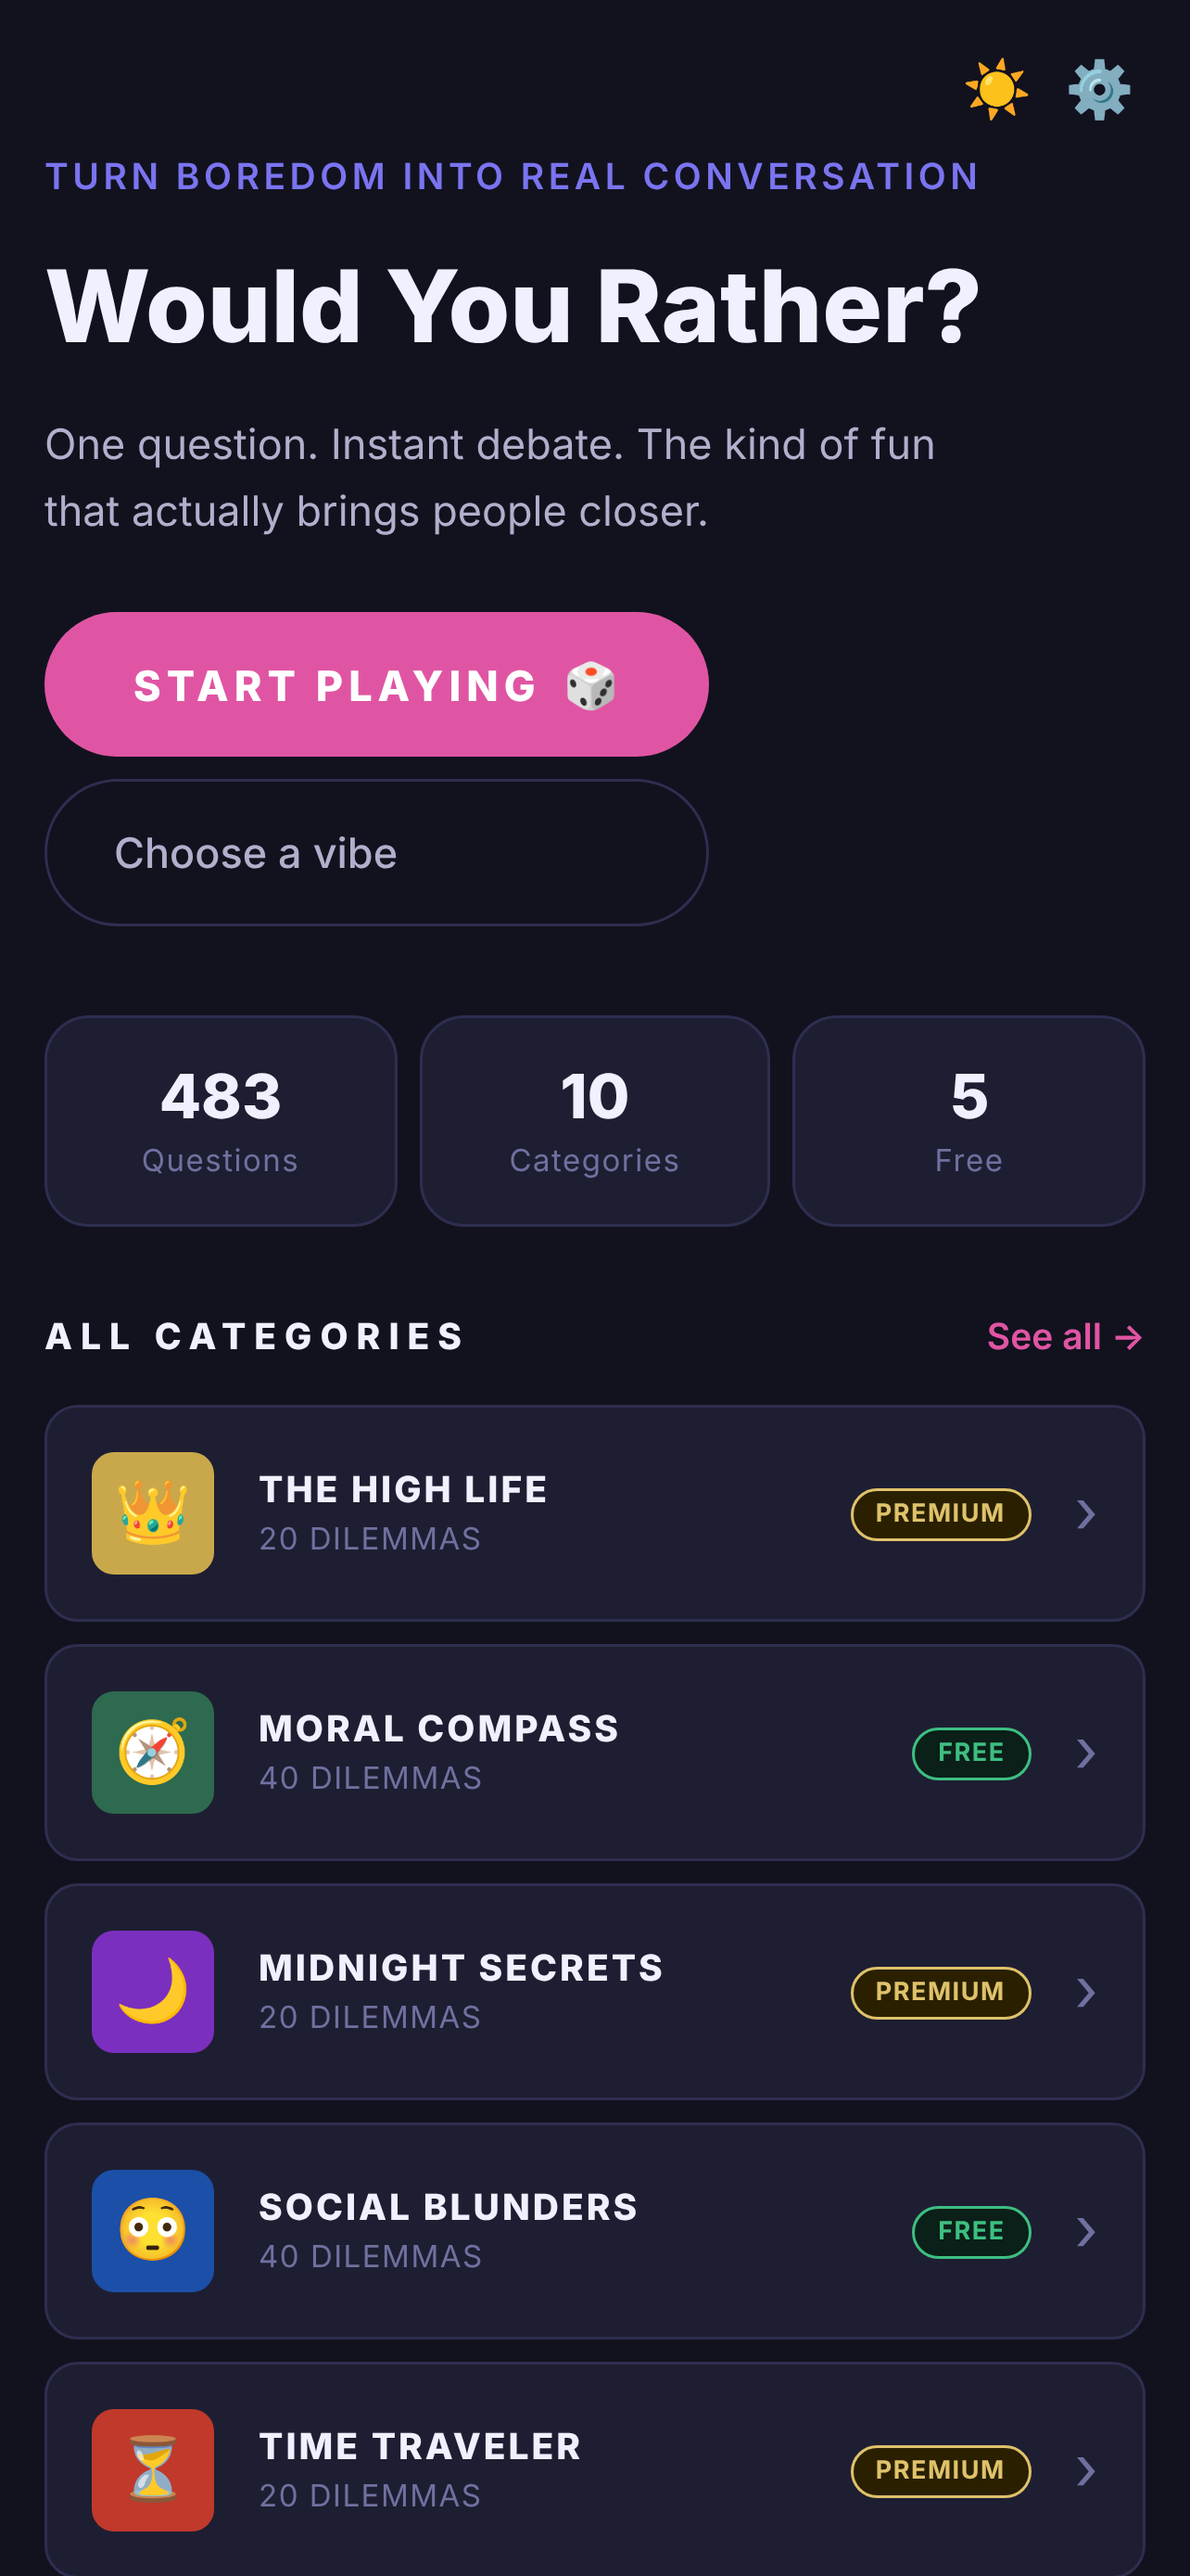
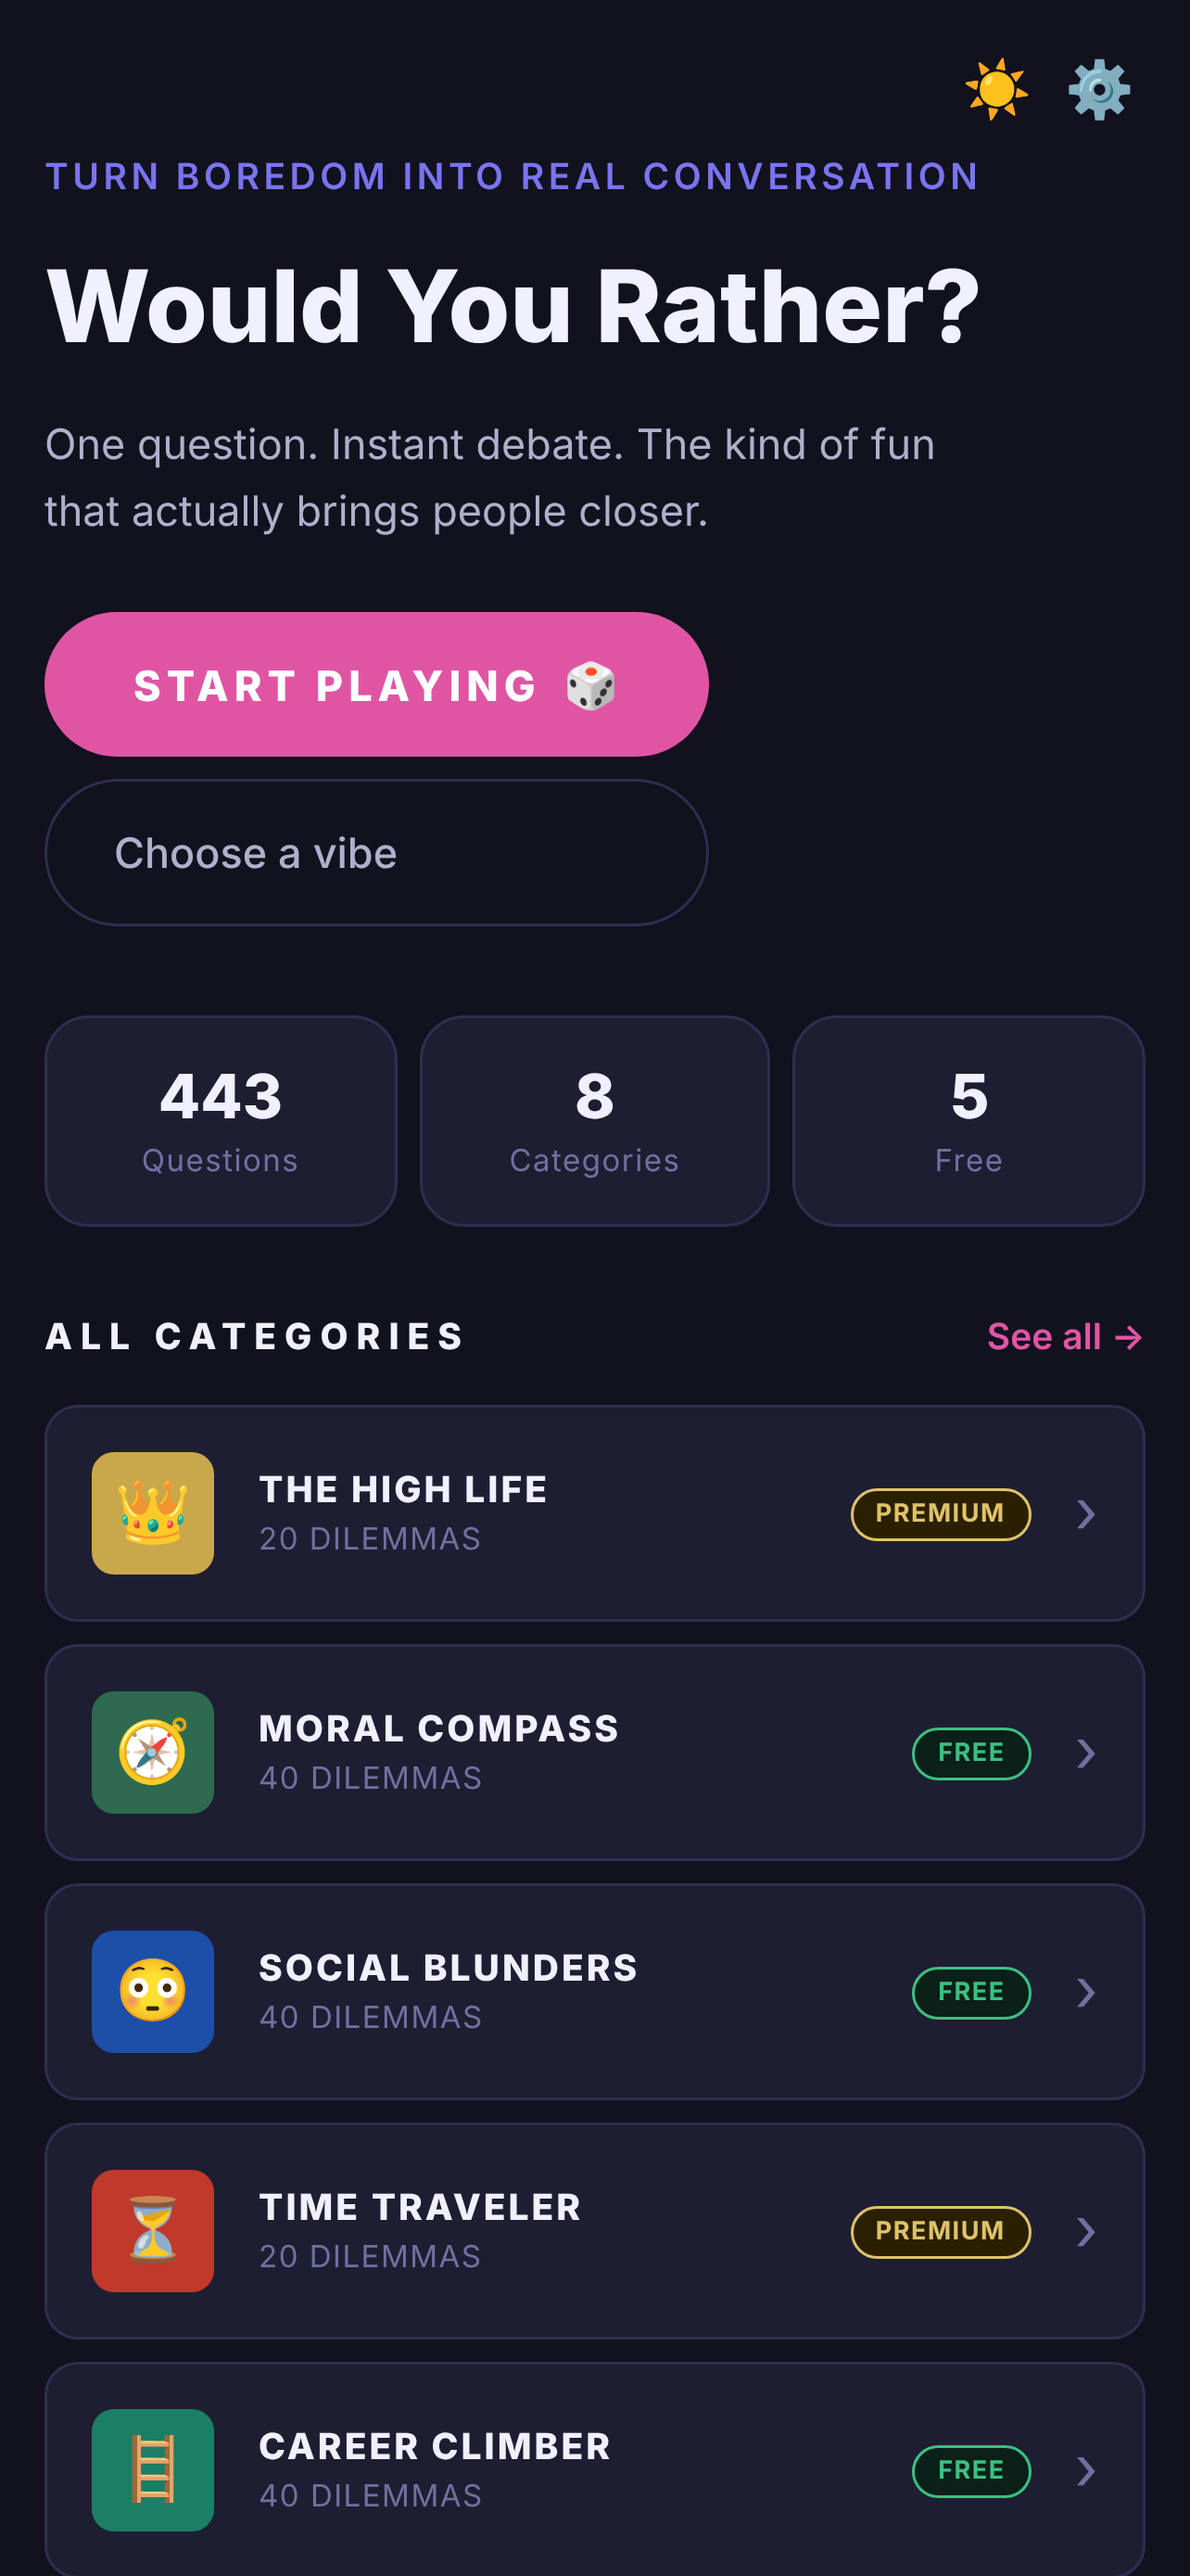
Listing kit: iPhone-only, iOS v1 drops two categories, coarse location, age-rating audit
Tim, 2026-11-18: iPhone only; leave Midnight Secrets and Deep Desires out of iOS v1;
update the privacy policy to disclose PostHog and RevenueCat.

Claude-Session: https://claude.ai/code/session_01SSvY6GZZ5U72W1nC7qsa2r

diff --git a/store/ios/privacy.md b/store/ios/privacy.md
@@ -1,37 +1,42 @@
 # App Privacy answers (draft for Tim's review)
 
-Answers must match what the shipped build does. Source of facts: `lib/analytics.ts`, `lib/votes.ts`, `app/privacy.tsx`, RevenueCat SDK behavior.
+Answers must match what the shipped build and its backend do. Sources: `lib/analytics.ts`, `lib/votes.ts`, `api/_lib/votes.js`, `app/privacy.tsx`, RevenueCat SDK behavior.
 
-## BLOCKER: the in-app privacy policy is inaccurate
+## Privacy policy: Tim said yes (2026-11-18)
 
-`app/privacy.tsx` says the app "does not use any analytics, tracking pixels, or third-party SDKs that collect user data". That is false: the app sends events to PostHog (`https://us.i.posthog.com`) and the iOS build adds RevenueCat. Apple requires the privacy policy URL, the privacy label and the app's real behavior to agree. The policy page (which is also live on the website) needs a rewrite before submission. Proposed replacement text for the Analytics and Purchases sections:
+`app/privacy.tsx` said the app "does not use any analytics, tracking pixels, or third-party SDKs". That is false: events go to PostHog (`https://us.i.posthog.com`), the iOS build adds RevenueCat, and the vote API stores coarse location. Tim approved updating the policy to disclose PostHog and RevenueCat, with **no analytics on the Kids & Family pages and kids-tagged questions**. The growth session makes the `privacy.tsx` change (PR #85) using the text below; this kit's answers must stay consistent with it.
 
-> **Analytics.** We use PostHog to understand which questions and screens are used, for example when a category is opened or a paywall is viewed. Events are linked to a random anonymous ID created on your device. We do not collect your name, email address or precise location, and we do not use the data for advertising or sell it.
+Proposed policy text:
+
+> **Analytics.** We use PostHog to understand which screens and categories are used, for example when a category is opened or a paywall is viewed. Events are linked to a random anonymous ID created on your device. We do not collect your name, email address or precise location, and we do not use the data for advertising or sell it. We do not run analytics on the Kids & Family pages or on questions tagged for kids.
 >
-> **Purchases.** In-app purchases are processed by Apple. We use RevenueCat to validate purchases and to restore them. RevenueCat receives an anonymous app user ID and your purchase history for this app, not your name or Apple ID.
-
-This changes live legal text, so it is not edited in this PR. Tim approves wording.
+> **Votes.** When you answer a question we store the question, your choice, the time, your anonymous ID and a coarse location (country and region, derived by our host from your connection; we do not store your IP address). For Kids & Family questions we store neither the anonymous ID nor location.
+>
+> **Purchases.** In-app purchases are processed by Apple. We use RevenueCat to validate and restore purchases. RevenueCat receives an anonymous app user ID and your purchase history for this app, not your name or Apple ID.
 
 ## App Privacy ("nutrition label") draft
 
-Data is collected, none is used for tracking, none is linked to a real-world identity.
+Data is collected, none is used for tracking, none is linked to a real-world identity. "Linked to the user" means linked to the anonymous ID.
 
-| Data type | Collected | Linked to user | Used for tracking | Purpose |
+| Data type | Collected | Linked to user | Tracking | Purpose |
 |---|---|---|---|---|
 | Purchases (purchase history) | Yes (RevenueCat) | Yes (anonymous app user ID) | No | App functionality |
-| Identifiers: Device ID / User ID | Yes (random anonymous ID) | Yes | No | Analytics, app functionality (one vote per question) |
-| Usage data: Product interaction | Yes (PostHog events, votes) | Yes (anonymous ID) | No | Analytics, app functionality |
+| Identifiers: User ID / Device ID (random anonymous ID) | Yes | Yes | No | Analytics, app functionality (one vote per question) |
+| Usage data: Product interaction (PostHog events, votes) | Yes | Yes | No | Analytics, app functionality |
+| Location: **Coarse Location** (country and region stored with each non-kids vote, from the host's geo headers) | Yes | Yes (stored with the player id) | No | Analytics (aggregate vote results by region) |
 | Diagnostics | No (no crash SDK) | n/a | n/a | n/a |
-| Contact info, location, contacts, photos, health, financial info, browsing history, search history, user content | No | n/a | n/a | n/a |
+| Contact info, precise location, contacts, photos, health, financial info, browsing and search history, user content | No | n/a | n/a | n/a |
 
 Notes:
-- "Linked to user" is Yes because the anonymous ID persists across events. Apple's definition does not require a real name.
-- No App Tracking Transparency prompt is needed as long as the data is not combined with third-party data for advertising and `NSUserTrackingUsageDescription` is not added.
-- Votes store the choice, time and anonymous ID; the policy says IP addresses are not stored.
+- Coarse Location was missing from the first draft. `geoFromHeaders` in `api/_lib/votes.js` reads Vercel's country and region headers (never the IP) and `recordVote` stores them with `player_id` for non-kids votes. Kids votes store `player_id` null and no location.
+- Backend storage counts as collection, not only SDKs: re-run this table whenever an API route starts storing a new field.
+- Kids & Family: no analytics events and no player id or location are collected there. If the growth PR (#85) ships the Kids exclusion differently, update these rows to match before submitting.
+- No App Tracking Transparency prompt is needed while data is not combined with third-party data for advertising and `NSUserTrackingUsageDescription` is not added.
 
 ## Other submission answers
-- Encryption: standard HTTPS only; `ITSAppUsesNonExemptEncryption=false` is set in `app.json` (PR for Unit 2).
+- Encryption: standard HTTPS only; `ITSAppUsesNonExemptEncryption=false` is set in `app.json` (Unit 2 PR).
 - Content rights: all questions are original to the project.
 - Sign in with Apple: not required (no third-party sign-in).
 - Account deletion: not applicable (no accounts).
 - Advertising identifier (IDFA): not used.
+- Apple Kids Category: not selected (adult themes in some questions; see `listing.md`).

diff --git a/store/ios/listing.md b/store/ios/listing.md
@@ -20,8 +20,8 @@ HOW IT WORKS
 - See the vote split from other players.
 - Challenge a friend: send a question and see if they pick the same.
 
-NINE CATEGORIES
-The High Life, Moral Compass, Midnight Secrets, Social Blunders, Time Traveler, Deep Desires, Career Climber, Tech Dystopia and Wildest Dreams, plus a Kids & Family set. Hundreds of questions, with more added over time.
+SEVEN CATEGORIES
+The High Life, Moral Compass, Social Blunders, Time Traveler, Career Climber, Tech Dystopia and Wildest Dreams, plus a Kids & Family set. Hundreds of questions, with more added over time.
 
 FREE TO START
 Every category has free questions to try. Moral Compass, Social Blunders, Career Climber and Tech Dystopia are free to play, with an optional expansion. Premium categories include a free preview.
@@ -48,15 +48,23 @@ Some categories contain adult themes and are meant for adult and teen players.
 
 ## Category and age rating
 - Primary category: recommend **Entertainment** (alternative: Games > Trivia). Not a Kids-category app.
-- Not in the Kids category (decision 4 on #54).
-- Age-rating questionnaire, draft answers (Tim confirms; Apple computes the final rating):
-  - Profanity or crude humor: Infrequent (a "gross" style of question exists)
-  - Mature/suggestive themes: Infrequent/mild (infidelity, crime, workplace themes per the code comments)
-  - Sexual content or nudity: None
-  - Violence, horror, alcohol/tobacco/drugs, gambling, contests: None
-  - Unrestricted web access: No
-  - User-generated content: No
-  - Expected result: 12+ (could be 17+ if Midnight Secrets/Deep Desires content is judged more explicit; Tim should read those two categories before answering)
+- iOS v1 is iPhone-only and leaves out **Midnight Secrets and Deep Desires** (Tim, 2026-11-18). The rating below is for the 8 categories that ship (443 questions).
+- Audit of the shipped question bank (keyword scan plus reading the hits; no profanity, drugs, violence or sexual content found):
+
+| Apple questionnaire item | Draft answer | Evidence |
+|---|---|---|
+| Profanity or crude humor | Infrequent / mild | a handful of gross-out or embarrassment questions (Social Blunders, Kids & Family: bodily humor) |
+| Alcohol, tobacco or drug use or references | Infrequent / mild | 2 of 443: `hl-16` (vineyard and winery), `hl-17` (wine cellar, sommelier) |
+| Mature / suggestive themes | Infrequent / mild | Moral Compass dilemmas: cheating on an exam, a friend's partner cheating, crime (3 questions) |
+| Sexual content or nudity | None | none found |
+| Violence (realistic, cartoon, horror) | None | `mc-36` and `kf-137` are an argument and a snowball fight |
+| Simulated gambling, contests | None | `hl-8` mentions a lottery as a hypothetical, not a mechanic |
+| Unrestricted web access | No | |
+| User-generated content | No | |
+| Medical or health content | None | |
+
+- **Expected rating: 13+ on Apple's current scale (4+, 9+, 13+, 16+, 18+).** Apple computes the final rating from the questionnaire; the old 12+/17+ labels no longer apply. If Apple returns 16+ the likely cause is the alcohol or mature-themes answer; both are mild and infrequent here.
+- Removing Midnight Secrets and Deep Desires is what keeps this at the lower end. Putting them back means re-running the audit.
 
 ## App Review notes
 ```

diff --git a/store/ios/iap.md b/store/ios/iap.md
@@ -2,22 +2,20 @@
 
 Created by hand in App Store Connect (Apple's API needs short-lived signed tokens; this is also the approval step for prices). Prices are the ones Tim approved on 2026-11-18. Product ids match `lib/catalog.ts` and the RevenueCat Test Store catalog exactly.
 
-All 10 are **Non-Consumable**. Price tier: USD $4.99 for the pack, USD $1.99 for each category. Localization: English (US). Family Sharing: off (decide).
+All 8 are **Non-Consumable** (the pack plus 7 categories). Price tier: USD $4.99 for the pack, USD $1.99 for each category. Localization: English (US). Family Sharing: off (decide).
 
 | # | Product ID | Reference name | Display name (max 30) | Description (max 45) | Price |
 |---|---|---|---|---|---|
 | 1 | `wyr_premium_all` | All Categories | All Categories | Every category, plus future questions | $4.99 |
 | 2 | `wyr_unlock_high_life` | Unlock The High Life | The High Life | Every question in The High Life | $1.99 |
 | 3 | `wyr_unlock_moral_compass` | Unlock Moral Compass | Moral Compass | Every question in Moral Compass | $1.99 |
-| 4 | `wyr_unlock_midnight_secrets` | Unlock Midnight Secrets | Midnight Secrets | Every question in Midnight Secrets | $1.99 |
-| 5 | `wyr_unlock_social_blunders` | Unlock Social Blunders | Social Blunders | Every question in Social Blunders | $1.99 |
-| 6 | `wyr_unlock_time_traveler` | Unlock Time Traveler | Time Traveler | Every question in Time Traveler | $1.99 |
-| 7 | `wyr_unlock_deep_desires` | Unlock Deep Desires | Deep Desires | Every question in Deep Desires | $1.99 |
-| 8 | `wyr_unlock_career_climber` | Unlock Career Climber | Career Climber | Every question in Career Climber | $1.99 |
-| 9 | `wyr_unlock_tech_dystopia` | Unlock Tech Dystopia | Tech Dystopia | Every question in Tech Dystopia | $1.99 |
-| 10 | `wyr_unlock_wildest_dreams` | Unlock Wildest Dreams | Wildest Dreams | Every question in Wildest Dreams | $1.99 |
+| 4 | `wyr_unlock_social_blunders` | Unlock Social Blunders | Social Blunders | Every question in Social Blunders | $1.99 |
+| 5 | `wyr_unlock_time_traveler` | Unlock Time Traveler | Time Traveler | Every question in Time Traveler | $1.99 |
+| 6 | `wyr_unlock_career_climber` | Unlock Career Climber | Career Climber | Every question in Career Climber | $1.99 |
+| 7 | `wyr_unlock_tech_dystopia` | Unlock Tech Dystopia | Tech Dystopia | Every question in Tech Dystopia | $1.99 |
+| 8 | `wyr_unlock_wildest_dreams` | Unlock Wildest Dreams | Wildest Dreams | Every question in Wildest Dreams | $1.99 |
 
-(`kids-family` is free and has no product.)
+(`kids-family` is free and has no product. **Midnight Secrets and Deep Desires have no product**: they are left out of iOS v1 (Tim, 2026-11-18). The pack covers the 7 categories that ship, plus questions added to them later.)
 
 ## Review screenshot (required per product)
 Apple wants a screenshot of the purchase screen for each product. One paywall capture per product (the category's own paywall; the pack can reuse any). These need a native build showing the real store price, so they are **pending Unit 2** (EAS dev build). The web paywall is not usable: it still shows the simulated sheet at $2.99.

diff --git a/store/ios/README.md b/store/ios/README.md
@@ -2,16 +2,18 @@
 
 Everything App Store Connect needs, for Tim to review. **Nothing has been uploaded.**
 
+iOS v1 scope (Tim, 2026-11-18): **iPhone only**, and **Midnight Secrets and Deep Desires are left out** (hidden on iOS, no products). The kit describes the 8 categories that ship.
+
 | File | What |
 |---|---|
-| `screenshots/<device>/NN-name.png` | 6 screenshots each for iPhone 6.9" (1320x2868), iPhone 6.5" (1284x2778) and iPad 13" (2064x2752). Regenerate: `scripts/store/screenshots.mjs` |
-| `listing.md` | name, subtitle, description, keywords, URLs, category, age-rating draft, review notes |
-| `privacy.md` | App Privacy answers, and a **blocker**: the in-app privacy policy says there is no analytics or third-party SDK, which is false |
-| `iap.md` | the 10 in-app products and prices |
+| `screenshots/<device>/NN-name.png` | 6 screenshots each for iPhone 6.9" (1320x2868) and iPhone 6.5" (1284x2778), generated with the iOS v1 catalog. Regenerate: `scripts/store/screenshots.mjs` |
+| `listing.md` | name, subtitle, description, keywords, URLs, category, age-rating audit and expected rating (13+), review notes |
+| `privacy.md` | App Privacy answers (incl. Coarse Location) and the privacy-policy text Tim approved updating |
+| `iap.md` | the 8 in-app products and prices |
 
 Open items before submission:
-1. Privacy policy rewrite (blocker, `privacy.md`).
+1. Privacy policy page update (PR #85, growth session) must match `privacy.md`.
 2. IAP review screenshots need a native build (Unit 2 blocked on the Expo token).
-3. iPad: `supportsTablet` is true, so iPad screenshots are required, but the layout stretches a phone column across the screen (see `ipad-13/*`). Options: ship iPhone-only for v1 (`supportsTablet: false`, no iPad screenshots), or give iPad a real layout.
-4. Screenshots are the web render, not simulator captures (header chrome differs from native).
-5. Name availability, support page contact, age-rating answers, copyright holder.
+3. Screenshots are the web render, not simulator captures (header chrome differs from native).
+4. Name availability, support page contact, copyright holder.
+5. The 13+ rating is an expectation from the audit; Apple computes the final rating from the questionnaire.
